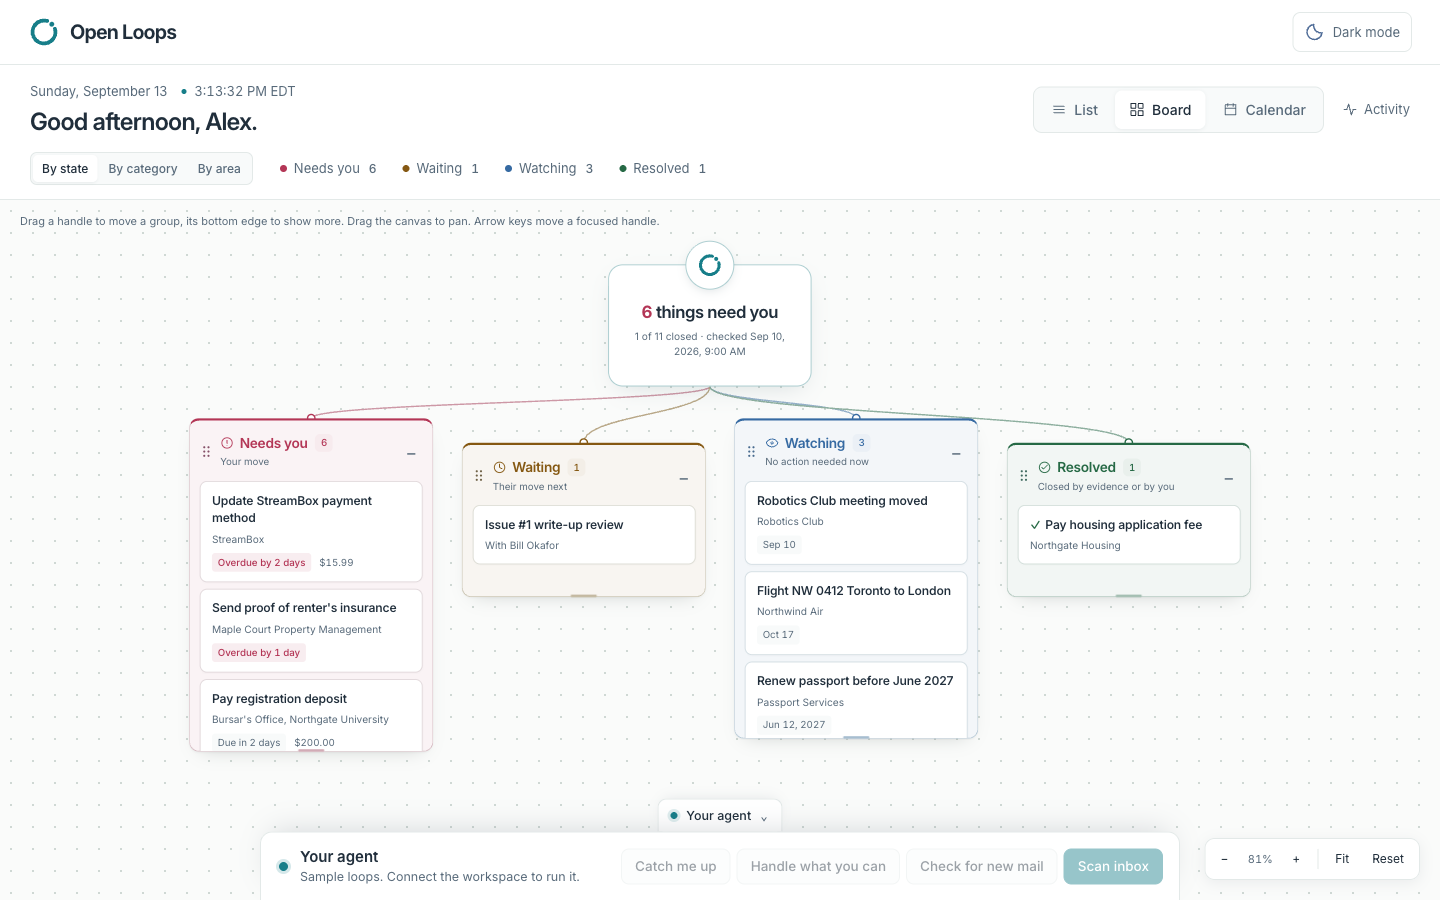
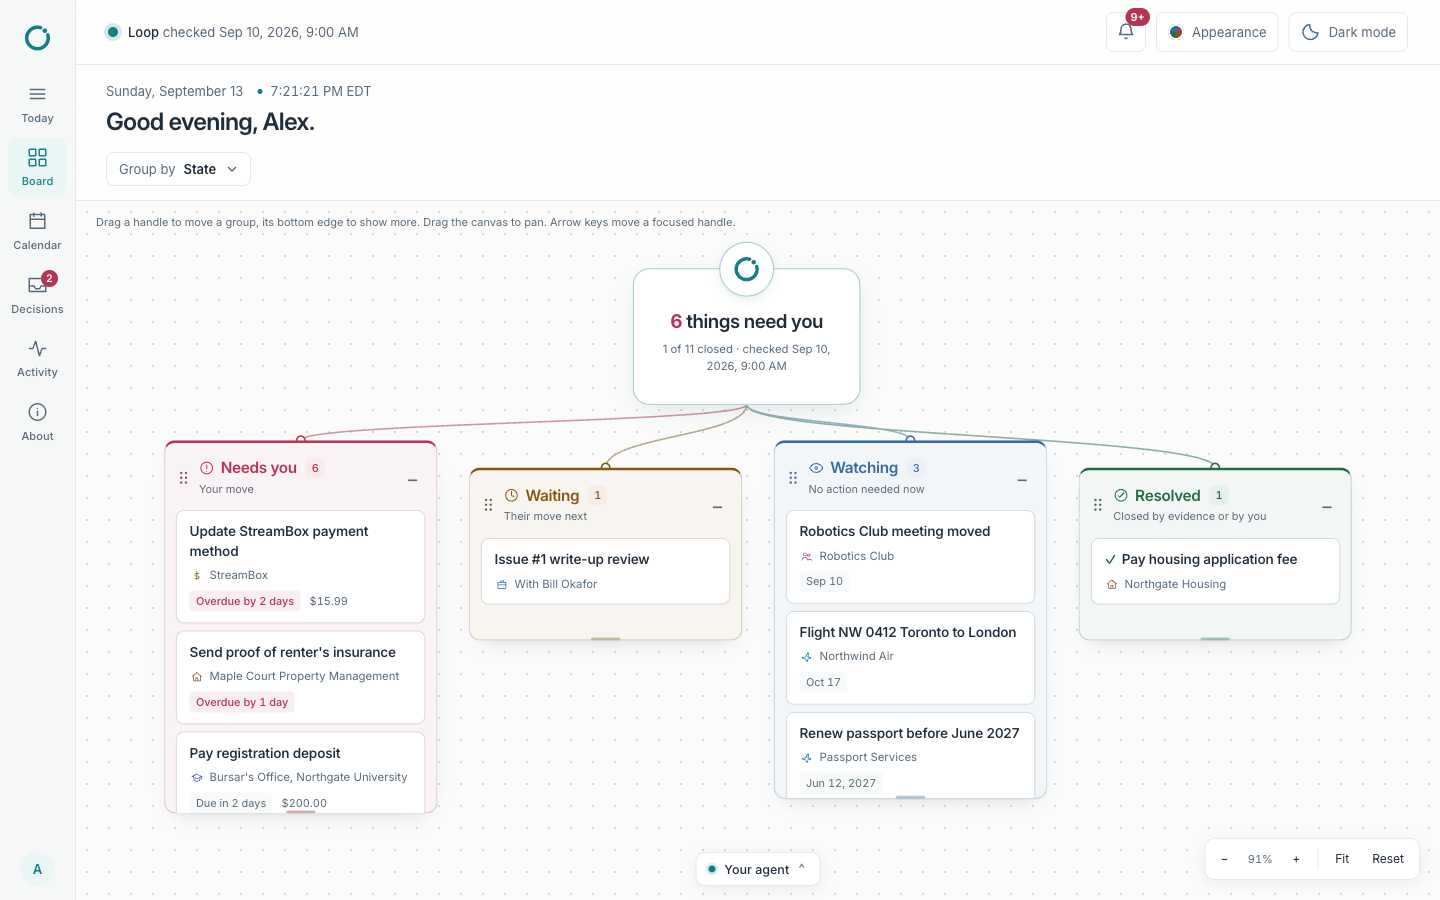
docs: screenshots recaptured after the revamp
Refs #109

Claude-Session: https://claude.ai/code/session_019ubQ7yENbnT3cashjRQMUd

diff --git a/web/README.md b/web/README.md
@@ -23,7 +23,7 @@ Activity (`/activity`, #109) is a timeline: one day at a time in the demo zone, 
 
 Sources: `/messages/[id]` renders one demo email or calendar event so every evidence line and source ref on a loop page links back to what the agent actually read (SPEC §12). The inbox comes from `demo/seed-inbox.json` merged with `seed-inbox-delta.json`, bundled at build time rather than read from disk; unknown ids 404.
 
-Shell and views (#88, #105): every destination is a route in the rail on the left (`components/app-rail.tsx`; bottom tabs on phones): **Today** (`/`), **Board** (`/board`), **Calendar** (`/calendar`), **Decisions** (`/decisions`, every proposed action the agent will not take without you, from `lib/decisions.ts`), **Activity** and **About**. The top bar carries the agent and when it last checked, the bell and the theme toggle. State counts live in the headline and on the rows, not in the navigation. The old `/?view=board` and `/?view=calendar` links redirect. **Today** is one wide column (960px, centred) until a loop is chosen; then, on screens 1100px and wider, it splits about half and half with the list on the left and the loop on the right (`/?loop=<id>`), rendered by `components/loop-detail.tsx`, the same server component `/loops/[id]` uses, so every action works in both places. Below 1100px the same URL opens the loop as a sheet over the list. Decisions follows the same rule. The list follows what Things, Todoist and Asana converged on: rows grouped by time (Overdue, Today, This week, Later, No date, Earlier for past dates the user does not owe, Resolved at the bottom), each row in fixed columns (#106): the area of life as a glyph in its own tint (`AreaIcon`; eight `--area-*` tokens per theme, applied through `data-area`, and the same tint colours the board's By area groups and the glyph on board cards and calendar chips, #91, #109), the verb with a small action glyph, the title clamped to two lines with who it is from and the verb and amount beneath, the due date in words, and the state chip, which gives way to Open and Source on hover. Overdue and due-today rows carry a stripe in the state colour. On a touch screen or a trackpad a row swipes right for Done and left for Snooze (`components/swipe-row.tsx`, #109): the row slides over a coloured layer, nothing commits before 96px, and an Undo toast stays for eight seconds. On a desktop the same two moves slide in on hover beside Open and Source. Undo calls `undoMove`, which puts the loop back in the state it had and restores the proposals that Done cancelled (`lib/restore.ts`, tested); anything declined on purpose stays declined. Approve is never a swipe. Arrow keys or J and K move between rows and the pane follows the focused row after a short rest, Enter opens (`components/list-keys.tsx`). The grouping lives in `lib/format.ts` (`groupByTime`, `daysUntil`) and counts days in the demo zone, so buckets and labels flip together at local midnight. **Calendar** (`components/calendar-view.tsx`) is a six-week table from the start of this week with each loop on its due day in its state color, plus Later and No date lists beneath; a day's number opens that day's agenda beside the grid (`/calendar?day=YYYY-MM-DD`, `components/calendar-agenda.tsx`, #109): what is due, who it is from and its state, or, on an empty day, the next loop that is due. **Board** (`components/loop-board.tsx`, #83, #90) is the whiteboard: a hub carrying the headline and draggable groups on connectors, grouped by state (the default) or, from one Group by menu with a line per option, by the loop's category (payments, subscriptions, forms, replies, appointments, meetings, travel, purchases, admin, other) or by its area of life (school, work, money, health, home, travel, clubs, other, #91), in which case each card carries its state icon. A group's bottom edge drags to make it taller until everything shows; arrow keys on the handle do the same. Pan and zoom have a drag threshold and gentle wheel zoom. Positions, heights and the grouping are saved per user in browser storage under `openloops:board:<userId>:v1` and validated on read; Reset restores the defaults. The headline (what needs you) and the agent panel sit above Today and Calendar; on the Board the agent panel is docked at the bottom of the canvas. Screenshots in [`docs/screenshots/`](../docs/screenshots/) predate #105 and are recaptured once the revamp (`docs/plans/2026-09-13-front-end-revamp.md`) lands.
+Shell and views (#88, #105): every destination is a route in the rail on the left (`components/app-rail.tsx`; bottom tabs on phones): **Today** (`/`), **Board** (`/board`), **Calendar** (`/calendar`), **Decisions** (`/decisions`, every proposed action the agent will not take without you, from `lib/decisions.ts`), **Activity** and **About**. The top bar carries the agent and when it last checked, the bell and the theme toggle. State counts live in the headline and on the rows, not in the navigation. The old `/?view=board` and `/?view=calendar` links redirect. **Today** is one wide column (960px, centred) until a loop is chosen; then, on screens 1100px and wider, it splits about half and half with the list on the left and the loop on the right (`/?loop=<id>`), rendered by `components/loop-detail.tsx`, the same server component `/loops/[id]` uses, so every action works in both places. Below 1100px the same URL opens the loop as a sheet over the list. Decisions follows the same rule. The list follows what Things, Todoist and Asana converged on: rows grouped by time (Overdue, Today, This week, Later, No date, Earlier for past dates the user does not owe, Resolved at the bottom), each row in fixed columns (#106): the area of life as a glyph in its own tint (`AreaIcon`; eight `--area-*` tokens per theme, applied through `data-area`, and the same tint colours the board's By area groups and the glyph on board cards and calendar chips, #91, #109), the verb with a small action glyph, the title clamped to two lines with who it is from and the verb and amount beneath, the due date in words, and the state chip, which gives way to Open and Source on hover. Overdue and due-today rows carry a stripe in the state colour. On a touch screen or a trackpad a row swipes right for Done and left for Snooze (`components/swipe-row.tsx`, #109): the row slides over a coloured layer, nothing commits before 96px, and an Undo toast stays for eight seconds. On a desktop the same two moves slide in on hover beside Open and Source. Undo calls `undoMove`, which puts the loop back in the state it had and restores the proposals that Done cancelled (`lib/restore.ts`, tested); anything declined on purpose stays declined. Approve is never a swipe. Arrow keys or J and K move between rows and the pane follows the focused row after a short rest, Enter opens (`components/list-keys.tsx`). The grouping lives in `lib/format.ts` (`groupByTime`, `daysUntil`) and counts days in the demo zone, so buckets and labels flip together at local midnight. **Calendar** (`components/calendar-view.tsx`) is a six-week table from the start of this week with each loop on its due day in its state color, plus Later and No date lists beneath; a day's number opens that day's agenda beside the grid (`/calendar?day=YYYY-MM-DD`, `components/calendar-agenda.tsx`, #109): what is due, who it is from and its state, or, on an empty day, the next loop that is due. **Board** (`components/loop-board.tsx`, #83, #90) is the whiteboard: a hub carrying the headline and draggable groups on connectors, grouped by state (the default) or, from one Group by menu with a line per option, by the loop's category (payments, subscriptions, forms, replies, appointments, meetings, travel, purchases, admin, other) or by its area of life (school, work, money, health, home, travel, clubs, other, #91), in which case each card carries its state icon. A group's bottom edge drags to make it taller until everything shows; arrow keys on the handle do the same. Pan and zoom have a drag threshold and gentle wheel zoom. Positions, heights and the grouping are saved per user in browser storage under `openloops:board:<userId>:v1` and validated on read; Reset restores the defaults. The headline (what needs you) and the agent panel sit above Today and Calendar; on the Board the agent panel is docked at the bottom of the canvas. Screenshots in [`docs/screenshots/`](../docs/screenshots/) were captured after the revamp (`docs/plans/2026-09-13-front-end-revamp.md`): Today at desktop and phone width in both themes, the board by state, category and area, the calendar with a day's agenda, a loop in the pane, the decision sheet, Settings, the welcome screen and the tour.
 
 Settings (`/settings`, #109): the agent's name (`renameAgent`, same cookie as the welcome screen), the appearance controls inline (`AppearanceControls`, the same component the top-bar popover uses), the device-notification permission as a setting, the connected sources as they stand (demo fixtures until #20, simulated effects until #21), and Reset the demo: `resetLedger` in `lib/ledger.ts` purges the demo user from the shared table through `DynamoLedgerStore.purgeUser` (#29) or reseeds the local JSON file, behind a confirm-in-place button. The avatar at the foot of the rail opens Settings. About (`/about`) carries the pitch, the four states, how the agent decides, the architecture diagram (`public/architecture.png`, a copy of `docs/architecture/openloop-architecture.png`) and the team; a footer on every page links About, Settings, the tour and the source.
 

diff --git a/README.md b/README.md
@@ -13,7 +13,7 @@ Team entry for the AWS **Agents for Humans** hackathon, Everyday Agents track.
 | **Architecture** | [diagram](docs/architecture/openloop-architecture.png) · [system description](docs/architecture.md) |
 | **License** | [MIT](LICENSE) |
 
-![The Open Loops dashboard: one summary line, then each responsibility as a row with who it is waiting on and its deadline, grouped by state.](docs/screenshots/dashboard-desktop.png)
+![Today in Open Loops: the day as a bar of loops by state, the agent panel with its four controls, what waits on a decision, and the responsibilities grouped by when they matter.](docs/screenshots/dashboard-desktop.png)
 
 ## What it does
 
